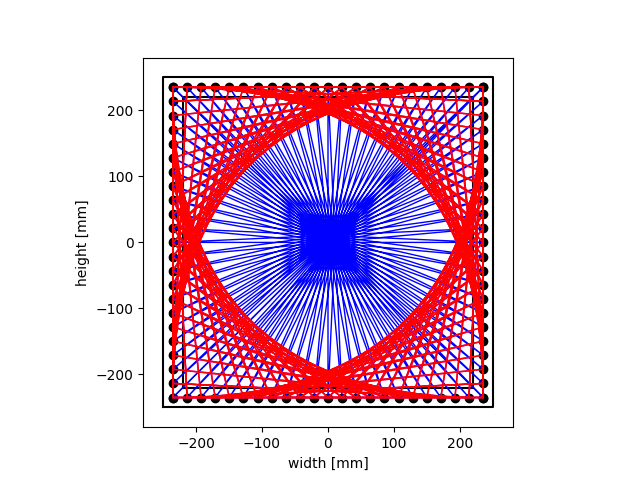
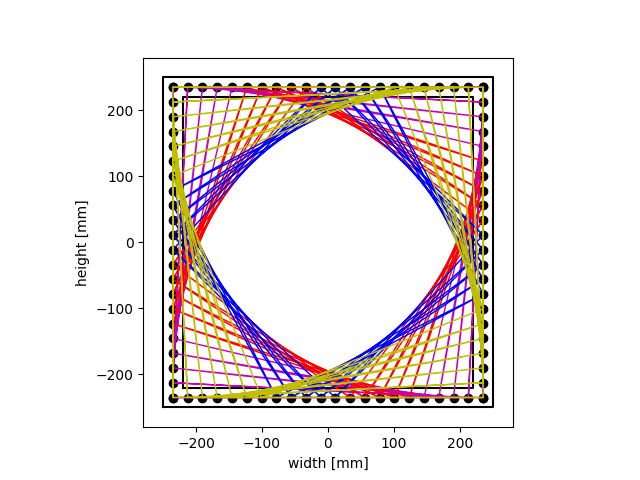
added some more examples

Changed region(s): [[0.25, 0.1562, 0.7812, 0.8438]]

diff --git a/square.py b/square.py
@@ -212,29 +212,36 @@ class Curve(Square):
 # Xp2 = Xpatt(500,23,30,-13,0,0,[0,1])
 # Xp3 = Xpatt(500,23,30,0,0,13,[1,0])
 # Xp4 = Xpatt(500,23,30,0,13,0,[0,1])
+# c1 = Curve(500,23,30,0,0,0)
 
-z1 = Zigzag(500,23,30,0,0,0)
+z1 = Zigzag(500,23,30,0,0,0,[1,0])
+z2 = Zigzag(500,23,30,0,0,0,[0,1])
 
-Xp1 = Xpatt(500,23,30,0,0,0,[1,1])
-c1 = Curve(500,23,30,0,0,0)
-c2 = Curve(500,23,30,0,0,0)
+# Xp1 = Xpatt(500,23,30,0,0,0,[1,1])
+c1 = Curve(500,23,30,0,0,0,[1,0,1,0])
+c2 = Curve(500,23,30,0,0,0,[0,1,0,1])
 # c3 = Curve(500,23,30,7,0,10)
 # c4 = Curve(500,23,30,0,0,15)
-
 
 fig = plt.figure()
 
 z1.plotSquare()
-# z1.plot()
-Xp1.plot()
-c1.plot('m',0,"A",0)
-c2.plot('r',1,"B",0)
-# c3.plot('b',0,"C",1)
-# c4.plot('y',0,"D",1)
-# Xp1.plot('b',0,"A",1)
-# Xp2.plot('b',0,"B",1)
-# Xp4.plot('r',0,"C",1)
-# Xp3.plot('r',0,"D",1)
+z1.plot('g')
+z2.plot('y')
+# c1.plot('r')
+c2.plot('r')
+
+
+# c1.plot('m',0,"A",0)
+# c2.plot('r',0,"B",0)
+# c3.plot('b',0,"C",0)
+# c4.plot('y',1,"D",0)
+# Xp1.plot('r',0,"A",0)
+# Xp2.plot('r',0,"B",0)
+# Xp4.plot('r',0,"C",0)
+# Xp3.plot('r',0,"D",0)
+
+
 
 
 

diff --git a/README.md b/README.md
@@ -91,14 +91,15 @@ c1 = Curve(445,22,30,11,0,0)
 
 
 ### Squares
+
 ```python
-#Square1
-c1 = Curve(500,22,30,17,0,0)
-c2 = Curve(500,22,30,12,0,5)
-c3 = Curve(500,22,30,7,0,10)
-c4 = Curve(500,22,30,0,0,15)
+#Square3
+Xp1 = Xpatt(500,23,30,0,0,0,[1,1])
+c1 = Curve(500,23,30,0,0,0)
+c2 = Curve(500,23,30,0,0,0)
 ```
-TODO
+![Square1](ExampleFigures/Square1.png)
+
 ```python
 #Square2
 z1 = Zigzag(500,23,30,0,0,0)
@@ -109,20 +110,33 @@ c2 = Curve(500,23,30,0,0,0,[0,1,0,1])
 
 ```python
 #Square3
-Xp1 = Xpatt(500,23,30,0,0,0,[1,1])
-c1 = Curve(500,23,30,0,0,0)
-c2 = Curve(500,23,30,0,0,0)
+c1 = Curve(500,22,30,17,0,0)
+c2 = Curve(500,22,30,12,0,5)
+c3 = Curve(500,22,30,7,0,10)
+c4 = Curve(500,22,30,0,0,15)
 ```
 ![Square3](ExampleFigures/Square3.png)
 
 ```python
-#Square2
-z1 = Zigzag(500,23,30,0,0,0)
-c1 = Curve(500,23,30,0,0,0,[1,0,1,0])
-c2 = Curve(500,23,30,0,0,0,[0,1,0,1])
+#Square4
+Xp1 = Xpatt(500,23,30,13,0,0,[1,0])
+Xp2 = Xpatt(500,23,30,-13,0,0,[0,1])
+Xp3 = Xpatt(500,23,30,0,0,13,[1,0])
+Xp4 = Xpatt(500,23,30,0,13,0,[0,1])
+c1 = Curve(500,23,30,0,0,0)
+
 ```
-![Square2](ExampleFigures/Square2.png)
-TODO
+![Square4](ExampleFigures/Square4.png)
+
+
+```python
+#Square5
+z1 = Zigzag(500,23,30,0,0,0,[1,0])
+z2 = Zigzag(500,23,30,0,0,0,[0,1])
+c1 = Curve(500,23,30,0,0,0,[0,1,0,1])
+```
+![Square5](ExampleFigures/Square5.png)
+
 
 
 
